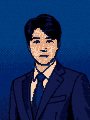
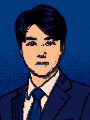
Tighter portrait crop (face to tie); side-by-side layout on mobile
Claude-Session: https://claude.ai/code/session_01EHJtJPoSytMmmJzBZoxngE

diff --git a/style.css b/style.css
@@ -199,6 +199,8 @@ body.no-scroll { overflow: hidden; }
 .stats dd { margin: 0; }
 @media (max-width: 600px) {
   .portrait-win { margin-right: 8px; box-shadow: 8px 8px 0 var(--bg-deep); }
-  .portrait-body { justify-content: center; }
-  .portrait { width: 150px; height: 200px; }
+  .portrait-body { flex-wrap: nowrap; gap: 14px; padding: 12px; }
+  .portrait { width: 120px; height: 160px; flex-shrink: 0; }
+  .stats { font-size: 13px; gap: 4px 10px; }
+  .stats .muted { display: block; }
 }
